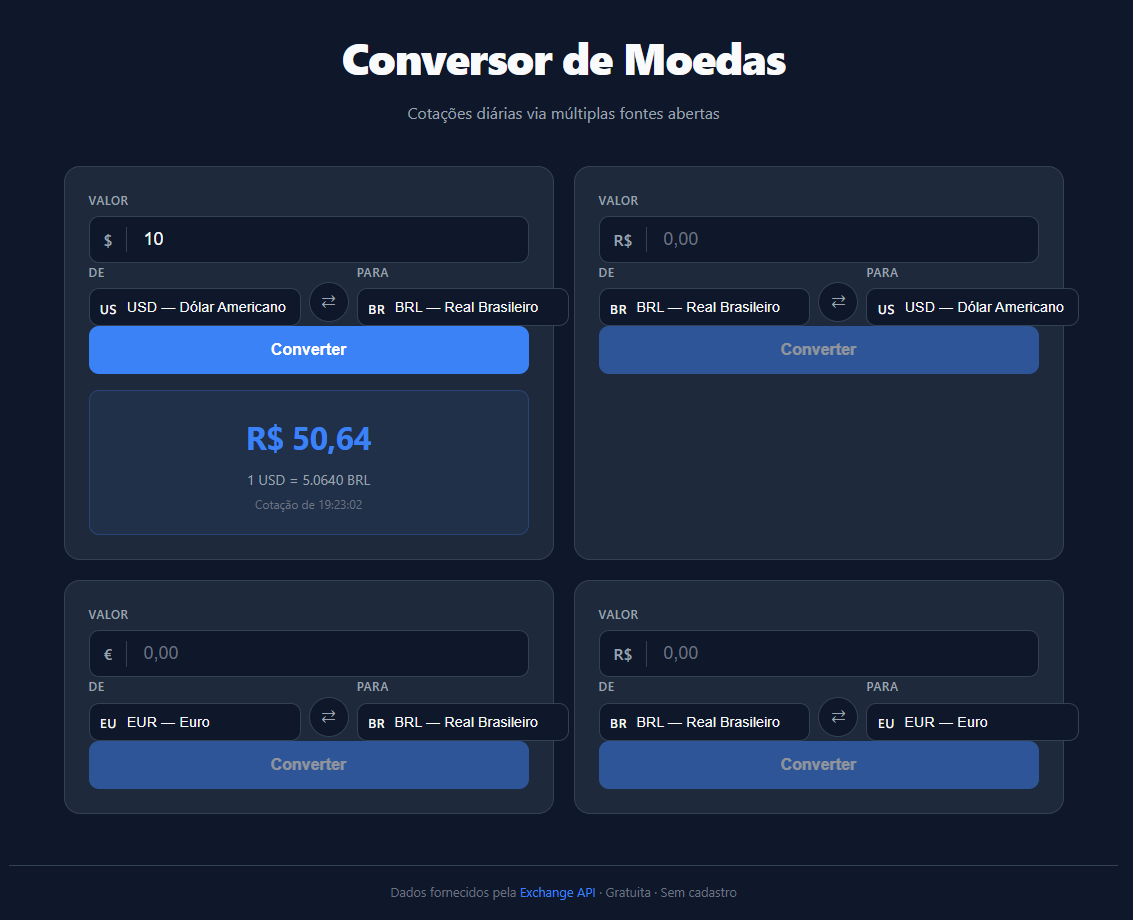
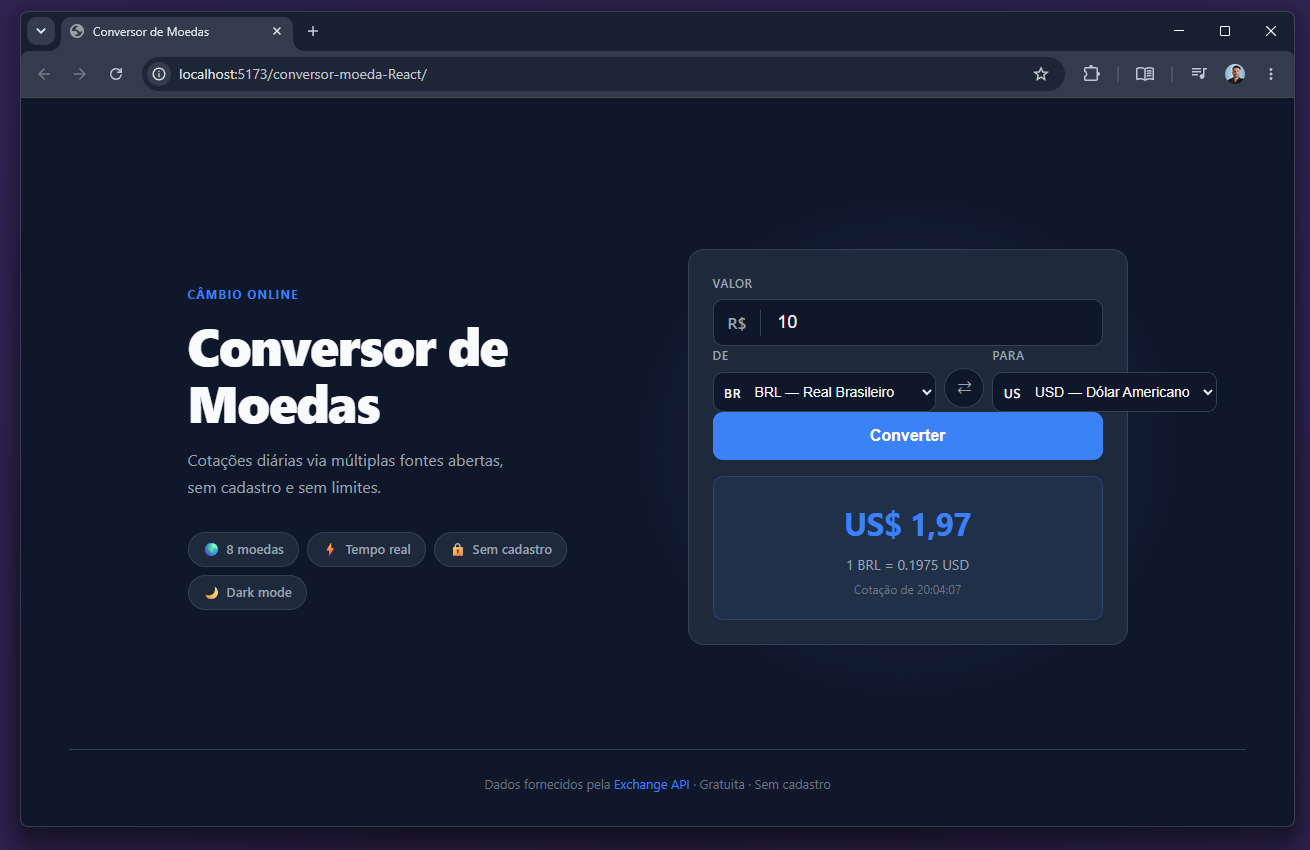
Merge pull request #53 from danhpaiva/develop
Develop

Pull request: Develop

diff --git a/src/App.module.css b/src/App.module.css
@@ -1,49 +1,161 @@
+/* ── Page shell ──────────────────────────────────────────────────────────── */
 .page {
   min-height: 100vh;
   display: flex;
   flex-direction: column;
   padding: 2rem 1.5rem;
-  gap: 2.5rem;
 }
 
+/* ── Hero: single-column on mobile → two-column on desktop ───────────────── */
+.hero {
+  flex: 1;
+  display: flex;
+  flex-direction: column;
+  align-items: center;
+  gap: 2.5rem;
+  width: 100%;
+  max-width: 480px;
+  margin: 0 auto;
+  padding: 2rem 0 3rem;
+}
+
+@media (min-width: 768px) {
+  .page {
+    padding: 2rem 3rem;
+  }
+
+  .hero {
+    flex-direction: row;
+    align-items: center;
+    justify-content: center;
+    gap: 5rem;
+    max-width: 1000px;
+    padding: 4rem 0 3rem;
+  }
+}
+
+/* ── Header / left side ──────────────────────────────────────────────────── */
 .header {
   text-align: center;
+  width: 100%;
+}
+
+@media (min-width: 768px) {
+  .header {
+    flex: 1;
+    text-align: left;
+    max-width: 420px;
+  }
+}
+
+.eyebrow {
+  font-size: 0.75rem;
+  font-weight: 700;
+  text-transform: uppercase;
+  letter-spacing: 0.1em;
+  color: var(--color-primary);
+  margin: 0 0 0.75rem;
 }
 
 .title {
-  font-size: clamp(1.75rem, 4vw, 2.75rem);
+  font-size: clamp(2rem, 5vw, 3.25rem);
   font-weight: 800;
   letter-spacing: -0.03em;
+  line-height: 1.1;
   color: var(--color-text);
-  margin: 0 0 0.5rem;
+  margin: 0 0 1rem;
 }
 
 .subtitle {
   font-size: 1rem;
+  line-height: 1.7;
   color: var(--color-text-muted);
-  margin: 0;
+  margin: 0 0 2rem;
 }
 
-.grid {
-  display: grid;
-  grid-template-columns: 1fr;
-  gap: 1.25rem;
-  width: 100%;
-  max-width: 560px;
-  margin: 0 auto;
+/* Hide the <br> on mobile so text flows naturally */
+.br {
+  display: none;
 }
 
-@media (min-width: 720px) {
-  .grid {
-    grid-template-columns: repeat(2, 1fr);
-    max-width: 1000px;
+@media (min-width: 768px) {
+  .br {
+    display: inline;
   }
 }
 
+/* ── Feature pills ───────────────────────────────────────────────────────── */
+.pills {
+  list-style: none;
+  display: flex;
+  flex-wrap: wrap;
+  gap: 0.5rem;
+  justify-content: center;
+}
+
+@media (min-width: 768px) {
+  .pills {
+    justify-content: flex-start;
+  }
+}
+
+.pill {
+  display: inline-flex;
+  align-items: center;
+  gap: 0.375rem;
+  padding: 0.375rem 0.875rem;
+  background: var(--color-surface);
+  border: 1px solid var(--color-border);
+  border-radius: 999px;
+  font-size: 0.8125rem;
+  font-weight: 500;
+  color: var(--color-text-muted);
+  white-space: nowrap;
+}
+
+/* ── Converter / right side ──────────────────────────────────────────────── */
+.main {
+  position: relative;
+  width: 100%;
+  max-width: 480px;
+}
+
+@media (min-width: 768px) {
+  .main {
+    flex: 0 0 440px;
+    max-width: none;
+    width: 440px;
+  }
+}
+
+/* Decorative glow behind the card (desktop only) */
+.glow {
+  display: none;
+}
+
+@media (min-width: 768px) {
+  .glow {
+    display: block;
+    position: absolute;
+    inset: -60px;
+    background: radial-gradient(ellipse at center, var(--color-primary-alpha) 0%, transparent 70%);
+    border-radius: 50%;
+    pointer-events: none;
+    z-index: 0;
+  }
+
+  /* Lift the card above the glow */
+  .main > :not(.glow) {
+    position: relative;
+    z-index: 1;
+  }
+}
+
+/* ── Footer ──────────────────────────────────────────────────────────────── */
 .footer {
   text-align: center;
   margin-top: auto;
-  padding-top: 1rem;
+  padding-top: 1.5rem;
   border-top: 1px solid var(--color-border);
 }
 

diff --git a/src/App.tsx b/src/App.tsx
@@ -1,20 +1,38 @@
 import { Conversor } from './components/Conversor/Conversor'
 import styles from './App.module.css'
 
+const PILLS = [
+  { icon: '🌍', label: '8 moedas' },
+  { icon: '⚡', label: 'Tempo real' },
+  { icon: '🔒', label: 'Sem cadastro' },
+  { icon: '🌙', label: 'Dark mode' },
+]
+
 export default function App() {
   return (
     <div className={styles.page}>
-      <header className={styles.header}>
-        <h1 className={styles.title}>Conversor de Moedas</h1>
-        <p className={styles.subtitle}>Cotações diárias via múltiplas fontes abertas</p>
-      </header>
+      <div className={styles.hero}>
+        <header className={styles.header}>
+          <p className={styles.eyebrow}>Câmbio online</p>
+          <h1 className={styles.title}>Conversor de Moedas</h1>
+          <p className={styles.subtitle}>
+            Cotações diárias via múltiplas fontes abertas,<br className={styles.br} />
+            sem cadastro e sem limites.
+          </p>
+          <ul className={styles.pills} aria-label="Destaques">
+            {PILLS.map(({ icon, label }) => (
+              <li key={label} className={styles.pill}>
+                <span aria-hidden="true">{icon}</span> {label}
+              </li>
+            ))}
+          </ul>
+        </header>
 
-      <main className={styles.grid}>
-        <Conversor defaultFrom="USD" defaultTo="BRL" />
-        <Conversor defaultFrom="BRL" defaultTo="USD" />
-        <Conversor defaultFrom="EUR" defaultTo="BRL" />
-        <Conversor defaultFrom="BRL" defaultTo="EUR" />
-      </main>
+        <main className={styles.main}>
+          <div className={styles.glow} aria-hidden="true" />
+          <Conversor defaultFrom="USD" defaultTo="BRL" />
+        </main>
+      </div>
 
       <footer className={styles.footer}>
         <p>

diff --git a/src/components/Conversor/Conversor.module.css b/src/components/Conversor/Conversor.module.css
@@ -122,20 +122,18 @@
 
 .select {
   flex: 1;
-  padding: 0.625rem 0.5rem 0.625rem 0;
+  /* enough width to show the code (e.g. "USD") without overflow */
+  min-width: 0;
+  max-width: 100%;
+  padding: 0.625rem 0.25rem 0.625rem 0;
   border: none;
-  background: transparent;
-  font-size: 0.9rem;
+  background: var(--color-bg);
+  font-size: 0.875rem;
   font-weight: 500;
   color: var(--color-text);
   cursor: pointer;
   outline: none;
-  appearance: none;
-  min-width: 0;
-  /* truncate long currency names */
-  overflow: hidden;
-  text-overflow: ellipsis;
-  white-space: nowrap;
+  /* keep native select arrow so the field is clearly interactive */
 }
 
 /* Swap button */

diff --git a/src/App.test.tsx b/src/App.test.tsx
@@ -5,9 +5,7 @@ import App from './App.tsx'
 describe('App', () => {
   it('renderiza o título principal', () => {
     render(<App />)
-    expect(
-      screen.getByRole('heading', { name: /conversor de moedas/i }),
-    ).toBeInTheDocument()
+    expect(screen.getByRole('heading', { name: /conversor de moedas/i })).toBeInTheDocument()
   })
 
   it('renderiza o subtítulo', () => {
@@ -15,18 +13,14 @@ describe('App', () => {
     expect(screen.getByText(/cotações diárias/i)).toBeInTheDocument()
   })
 
-  it('renderiza exatamente 4 cards de conversão', () => {
+  it('renderiza exatamente 1 card de conversão', () => {
     render(<App />)
-    const cards = screen.getAllByRole('article')
-    expect(cards).toHaveLength(4)
+    expect(screen.getAllByRole('article')).toHaveLength(1)
   })
 
-  it('renderiza os pares de moeda padrão', () => {
+  it('par padrão é USD → BRL', () => {
     render(<App />)
     expect(screen.getByRole('article', { name: /USD para BRL/i })).toBeInTheDocument()
-    expect(screen.getByRole('article', { name: /BRL para USD/i })).toBeInTheDocument()
-    expect(screen.getByRole('article', { name: /EUR para BRL/i })).toBeInTheDocument()
-    expect(screen.getByRole('article', { name: /BRL para EUR/i })).toBeInTheDocument()
   })
 
   it('renderiza o rodapé com link para a API', () => {